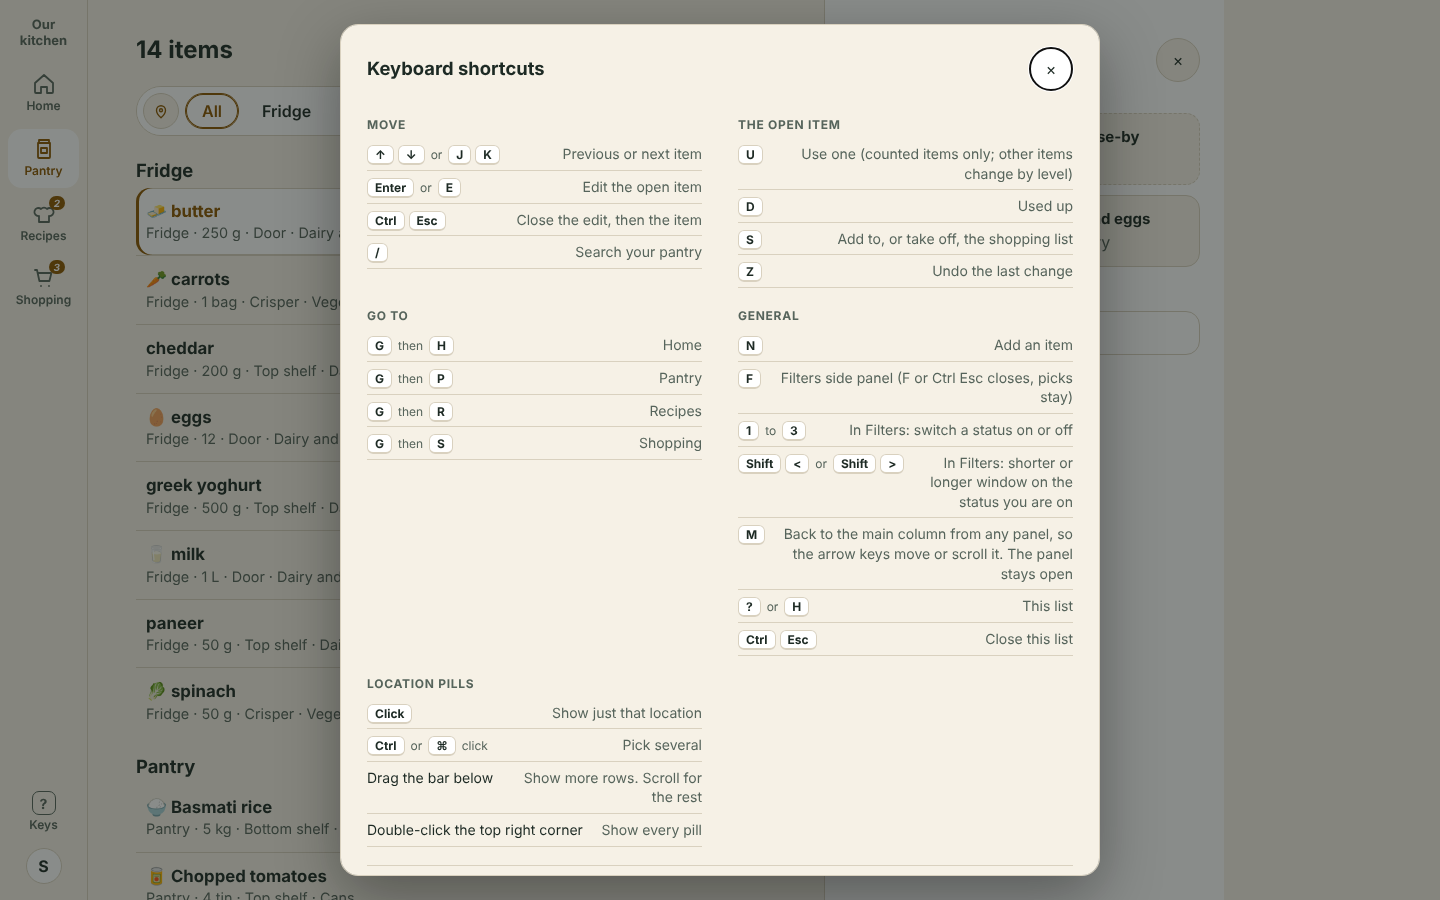
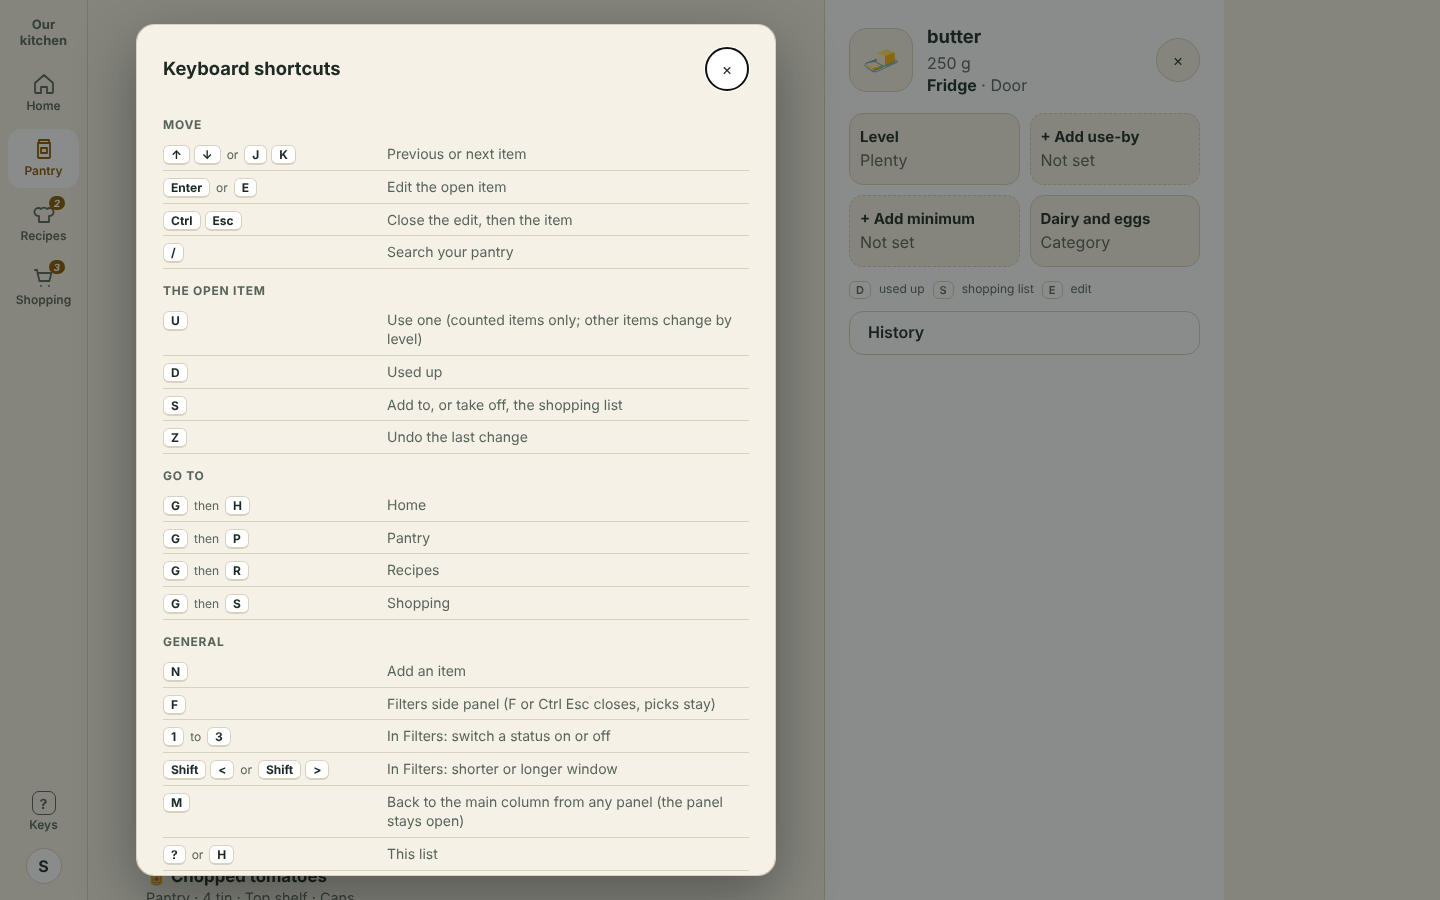
Desktop: URL options for every state, live links in the handover, overlays aligned to the main column
Claude-Session: https://claude.ai/code/session_01BRG9eiN8J8Pz3e582sVbeG

diff --git a/fragments/desktop/desktop.js b/fragments/desktop/desktop.js
@@ -165,7 +165,7 @@ var HELPHTML='<div class="kb" id="kb" hidden><div class="kbc" role="dialog" aria
  +G("Move",[["&uarr; &darr; or J K","Previous or next item"],["Enter or E","Edit the open item"],[ESCL,"Close the edit, then the item"],["/","Search your pantry"]])
  +G("The open item",[["U","Use one (counted items only; other items change by level)"],["D","Used up"],["S","Add to, or take off, the shopping list"],["Z","Undo the last change"]])
  +G("Go to",[["G then H","Home"],["G then P","Pantry"],["G then R","Recipes"],["G then S","Shopping"]])
- +G("General",[["N","Add an item"],["F","Filters side panel (F or "+ESCL+" closes, picks stay)"],["~<kbd>1</kbd> <em>to</em> <kbd>3</kbd>","In Filters: switch a status on or off"],["~<kbd>Shift</kbd> <kbd>&lt;</kbd> <em>or</em> <kbd>Shift</kbd> <kbd>&gt;</kbd>","In Filters: shorter or longer window on the status you are on"],["M","Back to the main column from any panel, so the arrow keys move or scroll it. The panel stays open"],["? or H","This list"],[ESCL,"Close this list"]])
+ +G("General",[["N","Add an item"],["F","Filters side panel (F or "+ESCL+" closes, picks stay)"],["~<kbd>1</kbd> <em>to</em> <kbd>3</kbd>","In Filters: switch a status on or off"],["~<kbd>Shift</kbd> <kbd>&lt;</kbd> <em>or</em> <kbd>Shift</kbd> <kbd>&gt;</kbd>","In Filters: shorter or longer window"],["M","Back to the main column from any panel (the panel stays open)"],["? or H","This list"],[ESCL,"Close this list"]])
  +G("Location pills",[["Click","Show just that location"],["Ctrl or &#8984; click","Pick several"],["~Drag the bar below","Show more rows. Scroll for the rest"],["~Double-click the top right corner","Show every pill"]])
  +'</div><div class="kbt"><span id="cuel">Show shortcut cues on buttons and hints</span><button type="button" class="sw2" id="cuetog" role="switch" aria-checked="true" aria-labelledby="cuel" data-cues><i>On</i></button></div><p class="kbf">Shortcuts pause while you type in a box. Picked pills move to the left after 5 seconds, or when you use the list.</p></div></div>';
 function G(t,r){return '<section class="kbs"><h3>'+t+'</h3>'+r.map(function(x){var k=x[0][0]==="~"?x[0].slice(1):x[0].split(" ").map(function(w){return /^(then|or|and|click)$/.test(w)?'<em>'+w+'</em>':'<kbd>'+w+'</kbd>'}).join(" ");return '<div class="kbr"><span class="kk">'+k+'</span><span>'+x[1]+'</span></div>'}).join("")+'</section>'}
@@ -204,7 +204,13 @@ function settle(){clearTimeout(ST);ST=null;var c=$("#chips");if(!c)return;var N=
  var old={};[].forEach.call(c.children,function(b){old[b.dataset.a]=b.getBoundingClientRect()});setDispA(nd);c.innerHTML=chipsHtml();$("#rib").scrollTop=0;
  if(window.matchMedia&&matchMedia("(prefers-reduced-motion: reduce)").matches)return;
  [].forEach.call(c.children,function(b){var o=old[b.dataset.a],n=b.getBoundingClientRect(),dx=o.left-n.left,dy=o.top-n.top;if(dx||dy){b.style.transition="none";b.style.transform="translate("+dx+"px,"+dy+"px)";b.offsetWidth;b.style.transition="transform .35s ease";b.style.transform=""}})}
-if(SCR==="pantry"){measure();setH(ROW);if(Q.get("filters")==='1'){if(Q.get("pre")==='1'){FST={soon:1};FCAT=["Dairy and eggs"];FSORT="useby"}FP=true;$("#panel").innerHTML=panel()}if(Q.get("open")==="add"||Q.get("open")==="1"&&Q.has("add")){AD=adef();ADDV=ADDO;$("#panel").innerHTML=panel();var qb=$("#qaw");if(qb)qb.innerHTML=ADDV==="b"?qabar():"";if(ADDV==="c")document.body.insertAdjacentHTML("beforeend",awin())}lw();window.addEventListener("resize",function(){measure();setH(RH)});
+if(SCR==="pantry"){measure();setH(ROW);var qlist=function(k){return(Q.get(k)||"").split(",").map(function(x){return x.trim()}).filter(Boolean)};
+ if(Q.get("filters")==='1'||Q.has("st")||Q.has("loc")||Q.has("cat")||Q.has("sortby")){if(Q.get("pre")==='1'){FST={soon:1};FCAT=["Dairy and eggs"];FSORT="useby"}
+  qlist("st").forEach(function(k){if(WINS[k]||k==="low")FST[k]=1});SELA=SELA.concat(qlist("loc").filter(function(a){return AREAS.indexOf(a)>-1}));FCAT=FCAT.concat(qlist("cat"));if(SORTS.some(function(x){return x[0]===Q.get("sortby")}))FSORT=Q.get("sortby");
+  if(Q.has("soonwin")&&WINS.soon[+Q.get("soonwin")])FW.soon=+Q.get("soonwin");if(Q.has("recentwin")&&WINS.recent[+Q.get("recentwin")])FW.recent=+Q.get("recentwin");
+  if(nF()||FSORT!=="none"){FUSED=true;syncChips()}
+  if(Q.get("filters")==='1'){FP=true;if(Q.get("curtain")==='1'){FCH={loc:9999,cat:9999}}if(Q.get("panel")==='sort')SORTP=true;$("#panel").innerHTML=panel();fcMeasure();drawS()}strip()}
+ if(Q.get("hist")==='1'&&SEL){HIST=true;drawH()}if(Q.get("open")==="add"||Q.get("open")==="1"&&Q.has("add")){AD=adef();ADDV=ADDO;$("#panel").innerHTML=panel();var qb=$("#qaw");if(qb)qb.innerHTML=ADDV==="b"?qabar():"";if(ADDV==="c")document.body.insertAdjacentHTML("beforeend",awin())}lw();window.addEventListener("resize",function(){measure();setH(RH)});if(Q.get("help")==="1")help(true);if(Q.get("profile")==="1")profile(null);
  var g=$("#rgrip");g.addEventListener("pointerdown",function(e){e.preventDefault();g.setPointerCapture(e.pointerId);var y0=e.clientY,h0=RH;$("#rib").dataset.drag=1;function mv(ev){setH(h0+ev.clientY-y0)}function up(){delete $("#rib").dataset.drag;g.removeEventListener("pointermove",mv);g.removeEventListener("pointerup",up)}g.addEventListener("pointermove",mv);g.addEventListener("pointerup",up)});
  document.addEventListener("pointerdown",function(e){var g=e.target.closest&&e.target.closest(".fgrip");if(!g)return;var c=g.closest(".fcurt"),y0=e.clientY,h0=parseFloat(c.querySelector(".fcw").style.height)||0;e.preventDefault();g.setPointerCapture(e.pointerId);c.dataset.drag=1;function mv(ev){fcSet(c,h0+ev.clientY-y0,true)}function up(){delete c.dataset.drag;g.removeEventListener("pointermove",mv);g.removeEventListener("pointerup",up)}g.addEventListener("pointermove",mv);g.addEventListener("pointerup",up)});
  document.addEventListener("dblclick",function(e){var g=e.target.closest&&e.target.closest(".fgrip,.fcor");if(g)fcToggle(g.closest(".fcurt"))});

diff --git a/fragments/desktop/desktop.css b/fragments/desktop/desktop.css
@@ -117,16 +117,18 @@ p{margin:0;color:var(--muted)}
 /* Shortcuts window (opaque block) and toast */
 [hidden]{display:none!important}
 .kb{position:fixed;inset:0;z-index:50;display:grid;place-items:center;background:var(--dim)}
-.kbc{background:var(--bg);border:1px solid var(--border);border-radius:var(--r-card);padding:22px 26px;width:min(760px,calc(100vw - 48px));max-height:calc(100vh - 48px);overflow:auto;box-shadow:0 20px 60px rgba(0,0,0,.35)}
+/* Overlays sit on the main column, not the middle of the window: left edge on the column's left (rail 88 + gutter 48), 640 wide, so on a big screen they do not float away from the content. */
+@media (min-width:1024px){.kb,.scrim2{justify-items:start;padding-left:136px}}
+.kbc{background:var(--bg);border:1px solid var(--border);border-radius:var(--r-card);padding:22px 26px;width:min(640px,calc(100vw - 48px));max-height:calc(100vh - 48px);overflow:auto;box-shadow:0 20px 60px rgba(0,0,0,.35)}
 .kbh{display:flex;align-items:center;margin-bottom:12px}
 .kbh .x{margin-left:auto;width:var(--tap);height:var(--tap);border-radius:50%;border:1px solid var(--border);background:var(--surface)}
-.kbg{display:grid;grid-template-columns:1fr 1fr;gap:6px 36px}
+.kbg{display:grid;grid-template-columns:1fr;gap:0}
 .kbs h3{font:700 12px var(--body);text-transform:uppercase;letter-spacing:.06em;color:var(--muted);margin:14px 0 6px}
 .kbr{display:flex;justify-content:space-between;gap:14px;padding:6px 0;border-bottom:1px solid var(--border);font-size:14px}
-.kk{white-space:nowrap}
+.kk{white-space:nowrap;flex:0 0 210px}
 .kk kbd{font:700 12px var(--body);border:1px solid var(--border);border-bottom-width:2px;border-radius:6px;padding:1px 7px;background:var(--surface)}
 .kk em{font-style:normal;color:var(--muted);font-size:12px;margin:0 2px}
-.kbr span:last-child{text-align:right;color:var(--muted)}
+.kbr span:last-child{text-align:left;color:var(--muted);flex:1}
 .kbf{font-size:12px;margin-top:14px}
 .toast{position:fixed;left:calc(88px + 48px);bottom:20px;z-index:40;display:flex;align-items:center;gap:14px;max-width:560px;padding:12px 16px;border-radius:var(--r-ctl);background:var(--fg);color:var(--bg);font-weight:600;box-shadow:0 8px 30px rgba(0,0,0,.3)}
 .toast a{color:inherit;text-decoration:underline}
@@ -245,7 +247,7 @@ p{margin:0;color:var(--muted)}
 .qrow input.bad{border-color:var(--accent)}.qrow .x{width:var(--tap);height:var(--tap);border-radius:50%;border:1px solid var(--border);background:var(--bg);font-size:20px;flex:none}
 .qchips{display:flex;flex-wrap:wrap;gap:8px;margin-top:10px}.qc{padding:4px 12px;border-radius:var(--r-pill);border:1px solid var(--border);background:var(--bg);font-size:13px}.qc b{color:var(--muted);font-weight:600;margin-right:4px}.qc.need{border-color:var(--accent);color:var(--accent)}
 .scrim2{position:fixed;inset:0;z-index:40;background:rgba(0,0,0,.45);display:grid;place-items:center;padding:24px}
-.awin{width:min(680px,100%);max-height:calc(100vh - 48px);overflow:auto;background:var(--surface);border-radius:var(--r-card);border:1px solid var(--border);padding:24px;box-shadow:0 24px 70px rgba(0,0,0,.4)}
+.awin{width:min(640px,100%);max-height:calc(100vh - 48px);overflow:auto;background:var(--surface);border-radius:var(--r-card);border:1px solid var(--border);padding:24px;box-shadow:0 24px 70px rgba(0,0,0,.4)}
 .awh{display:flex;align-items:center;justify-content:space-between;margin-bottom:14px}.awh .x,.fph .x{width:var(--tap);height:var(--tap);border-radius:50%;border:1px solid var(--border);background:var(--bg);font-size:20px}
 .awin .af{grid-template-columns:1fr 1fr}.awin .af .f:first-child{grid-column:1/-1}.awin .afb{grid-column:1/-1;grid-template-columns:1fr 1fr auto}
 .arev{display:flex;gap:6px;align-items:center;font-size:12px;color:var(--muted);margin:0 0 12px}.arev button{min-height:32px;min-width:32px;border-radius:99px;border:1px solid var(--border);background:var(--bg);font-weight:700}.arev button[aria-pressed="true"]{border-color:var(--accent);color:var(--accent);box-shadow:inset 0 0 0 1px var(--accent)}

diff --git a/docs/handover/desktop.md b/docs/handover/desktop.md
@@ -4,7 +4,7 @@ Status: **living handover, written 10 October 2026.** The owner said that once t
 
 Live mockup: <https://basement-bridge.github.io/mockup/fragments/desktop/pantry.html?sel=butter>. The decision record, in the owner's words and in order, is `docs/knowledge/desktop-layout.md`. Pull requests #37 to #49 in this repo carry the build detail. The Kitchie issues are #402 to #409 and #413; **none is approved for build** until the owner says so.
 
-Screenshots are in `docs/handover/img/` (1440 × 900 unless the name says otherwise).
+**Live links are the source of truth** (owner, voice, 10 October 2026: "better than screenshots, the actual link to the mockup along with the hashtags and everything"). Every state below opens from a link; screenshots in `docs/handover/img/` (1440 × 900) are only a quick look. Section 11 lists every link and what each URL option does.
 
 ## 1. Rules to follow
 
@@ -112,3 +112,33 @@ Found by reading `uat` (read only; nothing was changed there).
 - `fragments/device.js`: the hidden Device control. `flows/household/`: the phone flow.
 - `docs/knowledge/desktop-layout.md`: decision record. `docs/handover/`: this file and its pictures.
 - To regenerate pictures, serve the folder (`python3 -m http.server`) and use Playwright at 1440 × 900.
+
+## 11. Live links (open the real mockup in any state)
+
+Base: `https://basement-bridge.github.io/mockup/fragments/desktop/`. Add `&vp=1280` (or 1024, 1440, 1920, 2560) to see it in a window of that exact size; phone and tablet sizes open the household flow.
+
+| State | Link |
+|---|---|
+| Home | `home.html` |
+| Pantry, item open | `pantry.html?sel=butter` |
+| History column | `pantry.html?sel=butter&hist=1` |
+| Filters, clean | `pantry.html?filters=1` |
+| Filters, location and category curtains open | `pantry.html?filters=1&curtain=1` |
+| Filters, Expiring soon (2 weeks) and Recently added (5 days) | `pantry.html?filters=1&st=soon,recent&soonwin=2&recentwin=2` |
+| Filters in use plus the Sort flyout | `pantry.html?filters=1&st=low&loc=Pantry&sortby=name&panel=sort` |
+| Shortcuts list | `pantry.html?help=1` |
+| Profile window | `pantry.html?profile=1` |
+| Add form A, side panel | `pantry.html?add=a&open=add` |
+| Add form B, quick-add bar | `pantry.html?add=b&open=add` |
+| Add form C, window | `pantry.html?add=c&open=add` |
+| Laptop size, both flyouts | `pantry.html?filters=1&panel=sort&vp=1280` |
+
+URL options on `pantry.html` (all optional, they combine):
+
+- `sel=<id>`: the open item (ids: butter, carrots, cheddar, eggs, yog, milk, paneer, spinach, rice, tom, onion, garam, peas, ice). `hist=1` opens its History.
+- `filters=1`: open Filters. `st=low,soon,recent`: statuses on. `soonwin=0..3` and `recentwin=0..3`: window index (see the table in section 4). `loc=Pantry,Fridge`, `cat=Cans`: pills picked. `sortby=name|useby|cat`. `panel=sort`: open the Sort flyout. `curtain=1`: open both curtains. `pre=1`: the older preset (Expiring soon, Dairy and eggs, Use-by soonest).
+- `help=1`, `profile=1`: the shortcuts list, the Profile window. `add=a|b|c&open=add`: the Add form option.
+- `vp=<width>`: show the page in a frame of that size.
+
+The page also writes the open item back into its own address (`sel=`), so copying the address bar shares the open item.
+

diff --git a/docs/knowledge/desktop-layout.md b/docs/knowledge/desktop-layout.md
@@ -73,3 +73,6 @@ Mockup: `fragments/desktop/pantry.html` (press `?`), `fragments/desktop-profile/
 - **History shortcut (answer, 10 October 2026):** there is none yet. History opens from the History button on the item panel; `H` is the shortcuts list. Not changed, as the owner said it does not matter for the mockup.
 - **Main column has its own key (owner, voice, 10 October 2026).** From any panel or flyout, one single key puts focus back on the main column so the arrow keys move or scroll it, without closing the panel. The owner did not pick the letter (not G then a letter); **Proposal:** `M`, ignored while typing in a box, listed in the `?` list.
 - **Handover (owner, voice, 10 October 2026).** When the mockups are locked in they are handed to the building agent with all notes and screenshots: `docs/handover/desktop.md`.
+- **Handover uses live links (owner, voice, 10 October 2026).** "Better than screenshots, the actual link to the mockup along with the hashtags and everything": every state opens from a URL (`docs/handover/desktop.md`, section 11). New URL options: `hist`, `st`, `soonwin`, `recentwin`, `loc`, `cat`, `sortby`, `panel=sort`, `curtain`, `help`, `profile`.
+- **Overlays sit on the main column (owner, voice, 10 October 2026).** The shortcuts list and the Add window (option C) line up with the main column (left edge on the column's left, 640px wide) instead of the middle of the window, so on a big screen they do not float away from the content. The owner said "right boundary of the main column"; **Proposal:** the dialog fills the column exactly, so its right edge is the column's right boundary. The Profile window stays a true modal in the middle of the window. The shortcuts list is one column at this width.
+
